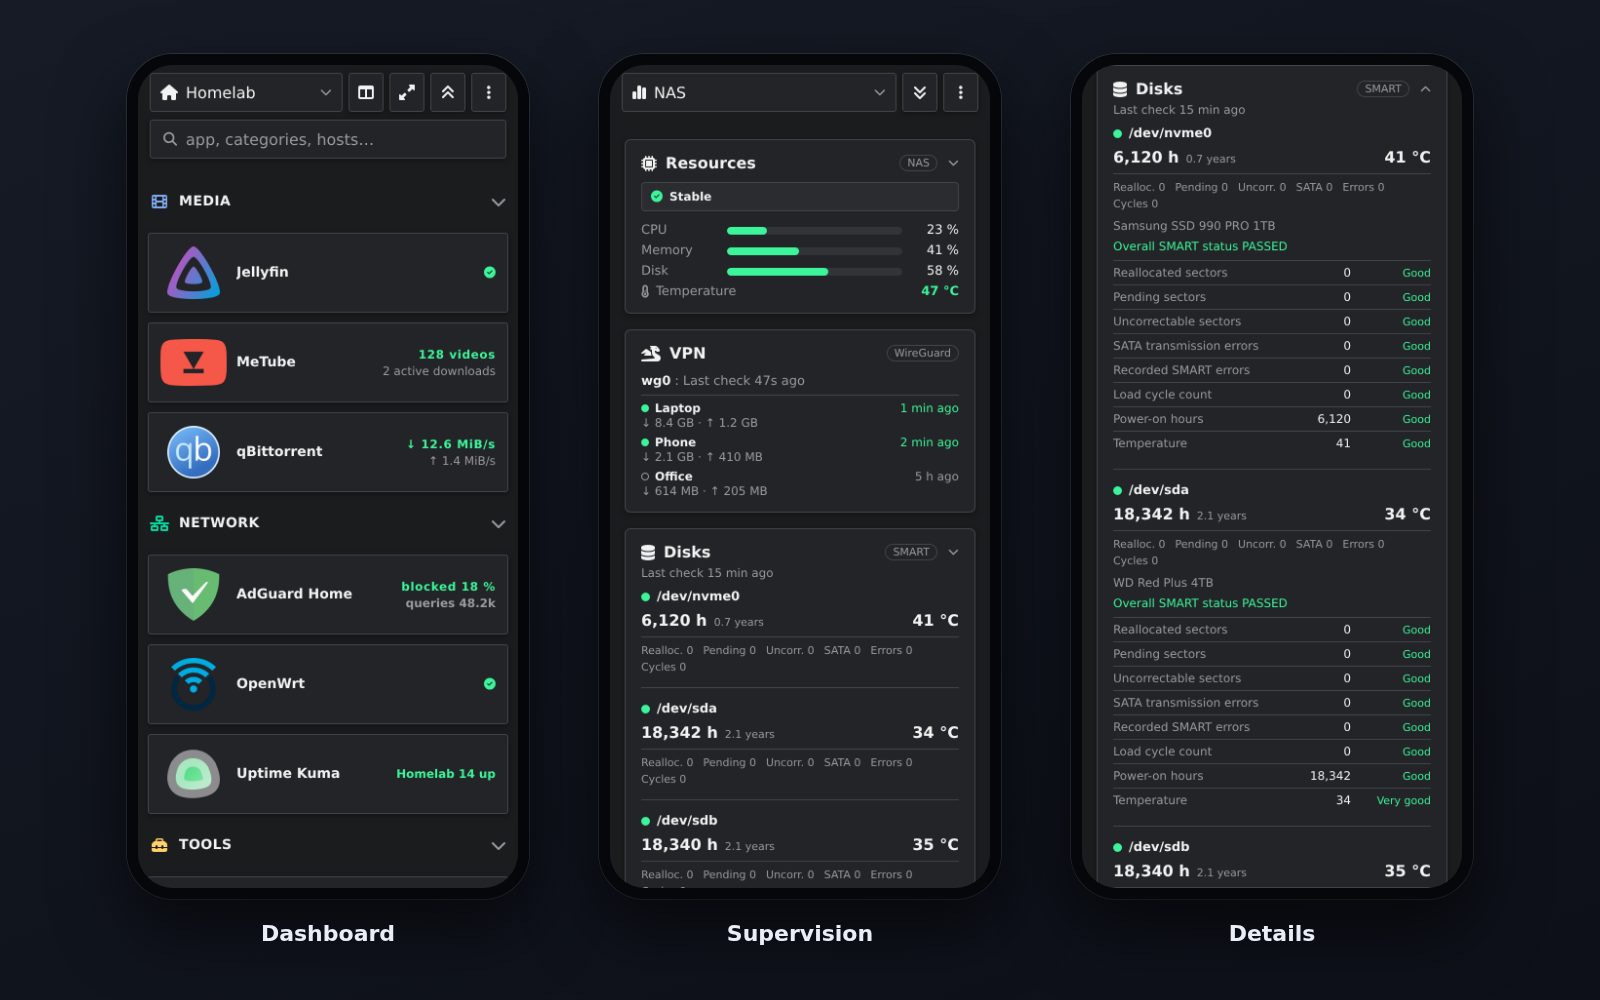
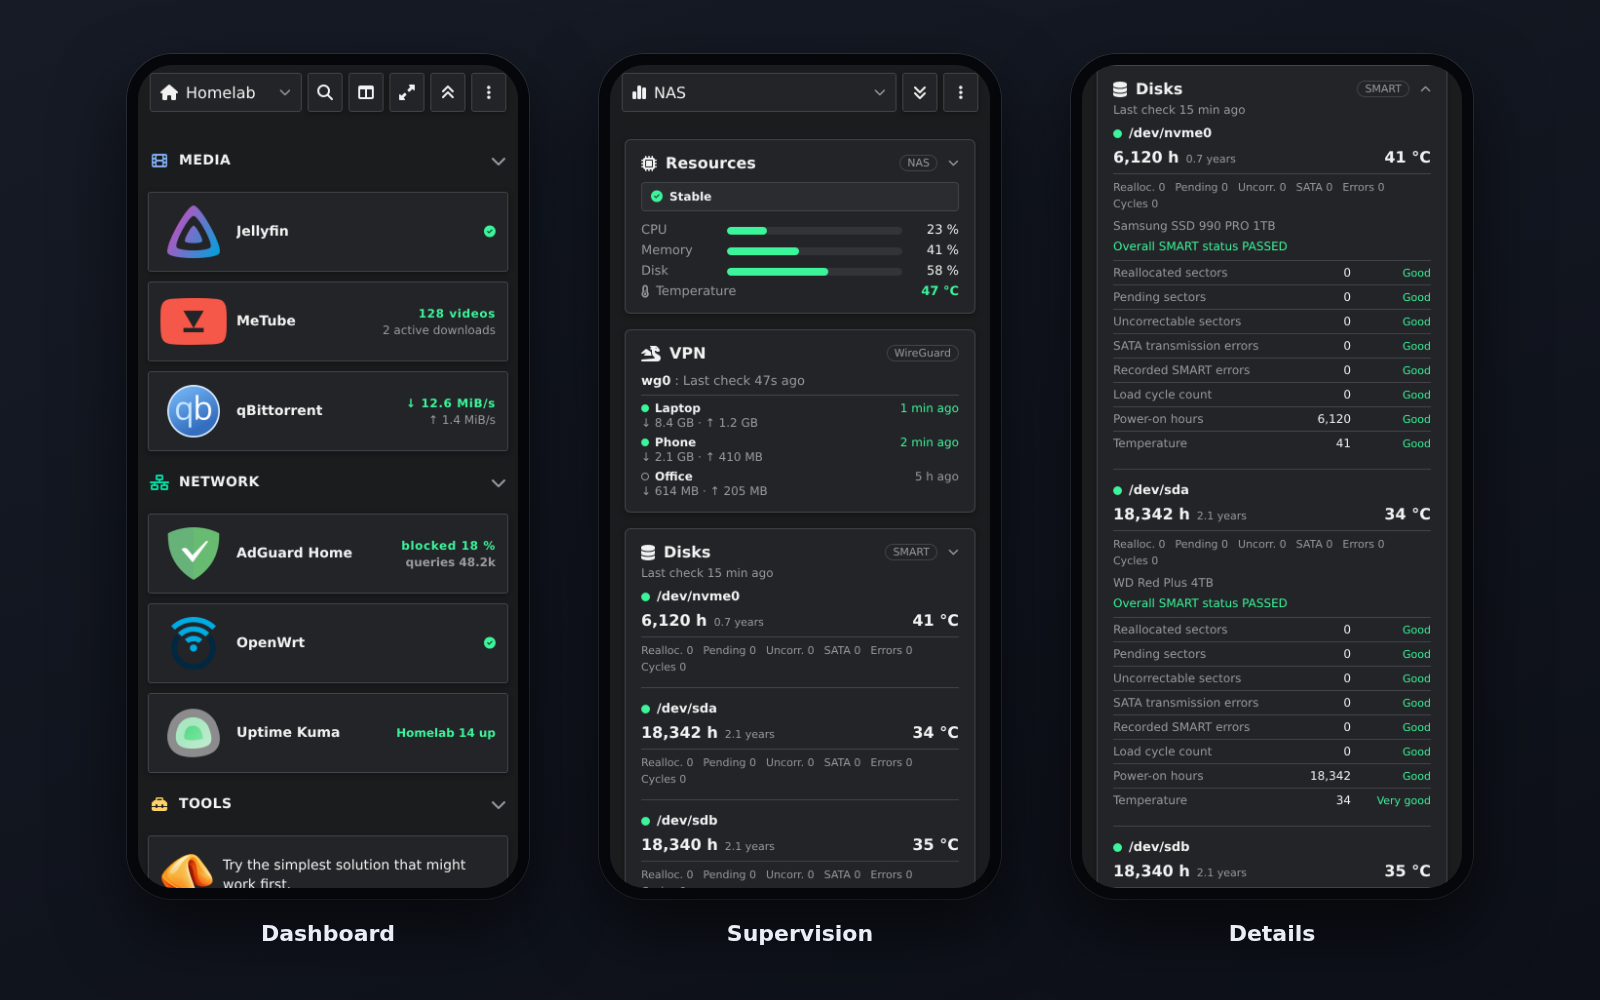
dashboard : recherche ouverte par une loupe, sur une ligne pleine largeur
La loupe ouvre les actions en haut a droite. Un clic ouvre la recherche sur
sa propre ligne sous la barre, sur tous les ecrans ; un second clic la ferme
et vide le filtre. « / » et Ctrl+K l'ouvrent et placent le curseur dedans.
La mesure de place qui deplacait la recherche selon les onglets disparait.

Claude-Session: https://claude.ai/code/session_01132Ww1zG67tFXtzadGnHLb

diff --git a/public/js/app.js b/public/js/app.js
@@ -54,9 +54,10 @@ import { renderWebLinksEditor } from "./editor/web-links.js";
 import { renderServiceEditor } from "./editor/services.js";
 import { closeImageLibrary } from "./images.js";
 import { loadWidgetRegistry } from "./widget-registry.js";
-import { hideToolbarSearch, menuRightOffset } from "./toolbar.js";
+import { menuRightOffset } from "./toolbar.js";
 import {
   searchInput,
+  searchBtn,
   searchClearBtn,
   dashboard,
   viewBtn,
@@ -171,43 +172,27 @@ function setToolbarHeight() {
 }
 
 const toolbar = document.querySelector(".toolbar");
-const pageSwitch = document.getElementById("pageSwitchGroup");
-const searchBox = searchInput.closest(".search-box");
-const toolbarActions = toolbar.querySelector(".toolbar-actions");
-// On a phone, or when the tabs leave it too little room, the search gets its
-// own line under the toolbar, at full width: it is never hidden.
-function placeSearchBox(below) {
-  if (below && searchBox.parentElement === toolbar) {
-    toolbar.after(searchBox);
-    searchBox.classList.add("below-toolbar");
-  } else if (!below && searchBox.parentElement !== toolbar) {
-    toolbarActions.before(searchBox);
-    searchBox.classList.remove("below-toolbar");
+const searchBox = document.getElementById("searchBox");
+// The search is a magnifier button at the head of the actions: it opens a line
+// of its own under the toolbar, at full width. Closing it clears the filter, so
+// no tile stays hidden by a search that can no longer be seen.
+function setSearchOpen(open) {
+  searchBox.hidden = !open;
+  searchBtn.setAttribute("aria-expanded", String(open));
+  if (open) {
+    searchInput.focus();
+    return;
+  }
+  if (searchBox.contains(document.activeElement)) searchBtn.focus();
+  if (searchInput.value) {
+    clearTimeout(renderTimer);
+    searchInput.value = "";
+    searchBox.classList.remove("has-value");
+    render();
   }
 }
+searchBtn.addEventListener("click", () => setSearchOpen(searchBox.hidden));
 function updateToolbarLayout() {
-  const mobile = window.innerWidth <= 800;
-  const styles = getComputedStyle(toolbar);
-  const gap = parseFloat(styles.columnGap) || 0;
-  const available =
-    toolbar.clientWidth -
-    (parseFloat(styles.paddingLeft) || 0) -
-    (parseFloat(styles.paddingRight) || 0);
-  const buttons = [...pageSwitch.children].filter(button => button.getClientRects().length);
-  const nav =
-    buttons.reduce((sum, button) => sum + button.getBoundingClientRect().width, 0) +
-    Math.max(0, buttons.length - 1) * (parseFloat(getComputedStyle(pageSwitch).columnGap) || 0);
-  const actions = [viewBtn, iconsBtn, collapseAllBtn, moreBtn].filter(
-    button => button.getClientRects().length
-  );
-  const actionWidth = actions.reduce(
-    (sum, button) => sum + button.getBoundingClientRect().width,
-    0
-  );
-  const compact =
-    !mobile && hideToolbarSearch(available, nav, actionWidth, gap * (actions.length + 1));
-  toolbar.classList.toggle("compact-search", compact);
-  placeSearchBox(mobile || compact);
   if (topMenu.classList.contains("show")) positionTopMenu();
 }
 function positionTopMenu() {
@@ -224,8 +209,6 @@ const headerObserver = new ResizeObserver(setToolbarHeight);
 headerObserver.observe(document.querySelector(".toolbar"));
 const toolbarObserver = new ResizeObserver(updateToolbarLayout);
 toolbarObserver.observe(toolbar);
-toolbarObserver.observe(pageSwitch);
-new MutationObserver(updateToolbarLayout).observe(pageSwitch, { childList: true });
 
 // No settings on a phone: the entry is hidden (components.css, same width),
 // and settings left open close when the screen becomes that narrow.
@@ -473,15 +456,12 @@ document.addEventListener("keydown", e => {
     return;
   }
 
-  if (
-    e.key === "/" &&
-    state.page === "dashboard" &&
-    searchInput.getClientRects().length &&
-    !isTypingTarget(document.activeElement) &&
-    !modalBackdrop.classList.contains("show")
-  ) {
+  const shortcut =
+    (e.key === "/" && !isTypingTarget(document.activeElement)) ||
+    (e.key.toLowerCase() === "k" && (e.ctrlKey || e.metaKey) && !e.altKey && !e.shiftKey);
+  if (shortcut && state.page === "dashboard" && !modalBackdrop.classList.contains("show")) {
     e.preventDefault();
-    searchInput.focus();
+    setSearchOpen(true);
   }
 });
 

diff --git a/public/index.html b/public/index.html
@@ -125,31 +125,19 @@
           <div id="mobilePageMenu" class="mobile-page-menu-list" role="menu"></div>
         </div>
 
-        <div class="search-box" role="search">
-          <i class="fa-solid fa-magnifying-glass" aria-hidden="true"></i>
-          <input
-            id="search"
-            class="search"
-            type="search"
-            placeholder="app, catégories, hôtes…"
-            aria-label="Rechercher dans les dashboards"
-            enterkeyhint="go"
-            autocomplete="off"
-          />
-          <kbd class="search-key" aria-hidden="true">/</kbd>
-          <button
-            id="searchClearBtn"
-            class="search-clear"
-            type="button"
-            title="Effacer la recherche"
-            aria-label="Effacer la recherche"
-          >
-            <i class="fa-solid fa-xmark" aria-hidden="true"></i>
-          </button>
-          <p id="searchStatus" class="visually-hidden" role="status"></p>
-        </div>
-
         <div class="toolbar-actions">
+          <button
+            id="searchBtn"
+            class="icon-btn"
+            type="button"
+            title="Rechercher (/)"
+            aria-label="Rechercher dans les dashboards"
+            aria-expanded="false"
+            aria-controls="searchBox"
+          >
+            <i class="fa-solid fa-magnifying-glass" aria-hidden="true"></i>
+          </button>
+
           <button id="viewBtn" class="icon-btn" type="button" title="Affichage en lignes">
             <i class="fa-solid fa-bars"></i>
           </button>
@@ -229,6 +217,30 @@
             </div>
           </div>
         </div>
+      </div>
+
+      <div id="searchBox" class="search-box" role="search" hidden>
+        <i class="fa-solid fa-magnifying-glass" aria-hidden="true"></i>
+        <input
+          id="search"
+          class="search"
+          type="search"
+          placeholder="app, catégories, hôtes…"
+          aria-label="Rechercher dans les dashboards"
+          enterkeyhint="go"
+          autocomplete="off"
+        />
+        <kbd class="search-key" aria-hidden="true">/</kbd>
+        <button
+          id="searchClearBtn"
+          class="search-clear"
+          type="button"
+          title="Effacer la recherche"
+          aria-label="Effacer la recherche"
+        >
+          <i class="fa-solid fa-xmark" aria-hidden="true"></i>
+        </button>
+        <p id="searchStatus" class="visually-hidden" role="status"></p>
       </div>
       <section id="webLinksSection" class="web-links-section">
         <div id="webLinksList" class="web-links-list"></div>

diff --git a/public/css/components.css b/public/css/components.css
@@ -747,20 +747,19 @@ body.is-refreshing .widget-status {
 }
 
 /* Smartphone et tablette : l'interface est epuree. Le bandeau des liens web
-   disparait. La recherche passe sur sa propre ligne sous la barre d'outils
-   (app.js la deplace). */
+   disparait. */
 @media (max-width: 800px) {
   .web-links-section {
     display: none;
   }
-  .search-box.below-toolbar {
+  .search-box {
     margin: 0 14px 4px;
   }
-  .search-box.below-toolbar .search-key {
+  .search-box .search-key {
     display: none;
   }
   /* 16 px : en dessous, iOS zoome sur le champ a la saisie. */
-  .search-box.below-toolbar .search {
+  .search-box .search {
     font-size: 16px;
   }
   /* Cible tactile de 40 px, l'icone garde sa taille. */
@@ -775,11 +774,11 @@ body.is-refreshing .widget-status {
 }
 @media (max-width: 560px) {
   /* Petit ecran : tout passe a 40 px, comme les boutons de la barre. */
-  .search-box.below-toolbar {
+  .search-box {
     height: 40px;
     margin: 0 12px 2px;
   }
-  .search-box.below-toolbar .search {
+  .search-box .search {
     height: 40px;
     min-height: 40px;
   }
@@ -869,6 +868,7 @@ body[data-page="supervision"] #dashboard {
 
 /* Les commandes ci-dessous ne s'appliquent qu'au tableau de bord. */
 body[data-page="supervision"] .search-box,
+body[data-page="supervision"] #searchBtn,
 body[data-page="supervision"] #viewBtn,
 body[data-page="supervision"] #iconsBtn {
   display: none;
@@ -878,19 +878,6 @@ body[data-page="supervision"] #iconsBtn {
    tout a droite, directement avant le menu « ... ». */
 body[data-page="supervision"] #collapseAllBtn {
   margin-left: auto;
-}
-
-/* Quand la recherche disparait, les actions du dashboard restent elles aussi
-   alignees a droite. Sur mobile le groupe d'actions gere deja cet alignement. */
-@media (min-width: 701px) {
-  body[data-page="dashboard"] .toolbar.compact-search #viewBtn {
-    margin-left: auto;
-  }
-}
-@media (min-width: 701px) and (max-width: 800px) {
-  body[data-page="dashboard"] .toolbar #viewBtn {
-    margin-left: auto;
-  }
 }
 
 .supervision-grid {

diff --git a/test/frontend.test.js b/test/frontend.test.js
@@ -207,16 +207,6 @@ async function main() {
   }
 
   const toolbar = await import(pathToFileURL(path.join(JS_DIR, "toolbar.js")).href);
-  check(
-    "toolbar : recherche dans la barre si assez de place",
-    toolbar.hideToolbarSearch(900, 400, 160, 50),
-    false
-  );
-  check(
-    "toolbar : recherche sous la barre si les onglets prennent la place",
-    toolbar.hideToolbarSearch(700, 400, 160, 50),
-    true
-  );
   {
     const { foldText, serviceMatchesSearch } = await importStateModules();
     check("recherche : accents et casse ignores", foldText(" Sécurité Hôte "), "securite hote");
@@ -228,11 +218,17 @@ async function main() {
   check("toolbar : menu a gauche recadre", toolbar.menuRightOffset(-80, 150, 800), -88);
   check("toolbar : menu bien place inchange", toolbar.menuRightOffset(500, 730, 800), 0);
   check("toolbar : menu a droite recadre", toolbar.menuRightOffset(600, 830, 800), 38);
-  const toolbarCss = readSource("public", "css", "components.css");
+  const indexHtml = readSource("public", "index.html");
+  const toolbarHtml = indexHtml.slice(indexHtml.indexOf('class="toolbar"'));
   ok(
-    "toolbar : actions du dashboard alignees a droite sans recherche",
-    contains(toolbarCss, ".toolbar.compact-search #viewBtn{margin-left:auto}") &&
-      contains(toolbarCss, ".toolbar #viewBtn{margin-left:auto}")
+    "toolbar : la loupe ouvre les actions, la recherche est sous la barre",
+    toolbarHtml.indexOf('id="searchBtn"') < toolbarHtml.indexOf('id="viewBtn"') &&
+      toolbarHtml.indexOf('id="searchBox"') > toolbarHtml.indexOf('id="topMenu"') &&
+      /id="searchBox"[^>]*hidden/.test(toolbarHtml)
+  );
+  ok(
+    "toolbar : la loupe aligne les actions a droite",
+    contains(readSource("public", "css", "base.css"), ".toolbar #searchBtn{margin-left:auto}")
   );
 
   // La carte APT partage la commande globale et conserve son etat au refresh.

diff --git a/test/browser.test.js b/test/browser.test.js
@@ -153,6 +153,30 @@ async function main() {
       "dark"
     );
   }
+  // Search: the magnifier opens a line under the toolbar, closing it clears it.
+  assert.equal(await evaluate("document.querySelector('#searchBox').hidden"), true);
+  await evaluate("document.querySelector('#searchBtn').click()");
+  assert.equal(
+    await evaluate(
+      "!document.querySelector('#searchBox').hidden && document.activeElement.id === 'search' && document.querySelector('#searchBtn').getAttribute('aria-expanded')"
+    ),
+    "true"
+  );
+  await evaluate(
+    "document.querySelector('#search').value='x';document.querySelector('#search').dispatchEvent(new Event('input'))"
+  );
+  await evaluate("document.querySelector('#searchBtn').click()");
+  assert.equal(
+    await evaluate(
+      "document.querySelector('#searchBox').hidden && document.querySelector('#search').value === '' && document.activeElement.id"
+    ),
+    "searchBtn"
+  );
+  await evaluate(
+    "document.dispatchEvent(new KeyboardEvent('keydown',{key:'k',ctrlKey:true,bubbles:true}))"
+  );
+  assert.equal(await evaluate("document.activeElement.id"), "search");
+  await evaluate("document.querySelector('#searchBtn').click()");
   assert.equal(await evaluate("!!document.querySelector('#menuSettingsBtn')"), true);
   assert.equal(
     await evaluate(

diff --git a/public/css/base.css b/public/css/base.css
@@ -143,19 +143,26 @@ main {
   outline-offset: 2px;
 }
 
+/* Search line, opened by the magnifier button (app.js): full width under the
+   toolbar, aligned on its content. */
 .search-box {
-  flex: 1 1 140px;
-  max-width: 340px;
-  margin-left: auto;
   position: relative;
-  min-width: 0;
   height: 46px;
-}
-/* No room left in the toolbar (app.js): the search gets its own line under
-   it, aligned on the toolbar content. */
-.search-box.below-toolbar {
-  max-width: none;
   margin: 0 max(26px, calc((100vw - 1280px) / 2)) 10px;
+}
+.search-box[hidden] {
+  display: none;
+}
+
+/* The magnifier opens the actions, pushed to the right by its automatic
+   margin; pressed while the search line is open. */
+.toolbar #searchBtn {
+  margin-left: auto;
+}
+#searchBtn[aria-expanded="true"] {
+  background: var(--surface-2);
+  border-color: var(--accent);
+  color: var(--accent);
 }
 
 .search-box > i {

diff --git a/public/js/i18n.js b/public/js/i18n.js
@@ -9,6 +9,7 @@ import {
   usageFieldLabel,
   resetUsageBtn,
   searchInput,
+  searchBtn,
   searchClearBtn,
   topMenu,
   groupCategoryBtn,
@@ -73,6 +74,8 @@ export function applyLanguage() {
   resetUsageBtn.querySelector("span").textContent = t("resetUsage");
   searchInput.placeholder = t("search");
   searchInput.setAttribute("aria-label", t("searchLabel"));
+  searchBtn.title = t("searchOpen");
+  searchBtn.setAttribute("aria-label", t("searchLabel"));
   searchClearBtn.title = t("searchClear");
   searchClearBtn.setAttribute("aria-label", t("searchClear"));
   document.getElementById("supportLabel").textContent = t("support");

diff --git a/public/js/dom.js b/public/js/dom.js
@@ -7,6 +7,7 @@ export const supervisionPage = document.getElementById("supervisionPage");
 export const supervisionList = document.getElementById("supervisionList");
 export const refreshBar = document.getElementById("refreshBar");
 export const searchInput = document.getElementById("search");
+export const searchBtn = document.getElementById("searchBtn");
 export const searchClearBtn = document.getElementById("searchClearBtn");
 export const searchStatus = document.getElementById("searchStatus");
 export const viewBtn = document.getElementById("viewBtn");

diff --git a/public/js/toolbar.js b/public/js/toolbar.js
@@ -1,9 +1,3 @@
-// Pure measurements: the navigation may hold a variable number of tabs. Below
-// `minimumSearch` pixels the search leaves the toolbar for a line of its own.
-export function hideToolbarSearch(available, navigation, actions, gaps, minimumSearch = 200) {
-  return available < navigation + actions + gaps + minimumSearch;
-}
-
 // Offset of the menu's right edge, normally aligned on the button.
 export function menuRightOffset(left, right, viewport, margin = 8) {
   const width = right - left;

diff --git a/README.md b/README.md
@@ -14,7 +14,8 @@ No account, no cloud, no database. One small Node.js container, one page, and
 you stop guessing whether *that* thing is working.
 
 - **Several dashboards, one page** — split your lab across named dashboards, each
-  with its own icon; group by category or by host, search, three view modes
+  with its own icon; group by category or by host, search across all dashboards
+  (magnifier, `/` or Ctrl+K), three view modes
   (rows / columns / full), small or large icons.
 - **Live widgets, not just green/red dots** — Docker, Duplicati, AdGuard, Gotify,
   qBittorrent, MeTube, Lichess, Uptime Kuma and Ping report straight onto the tile.
